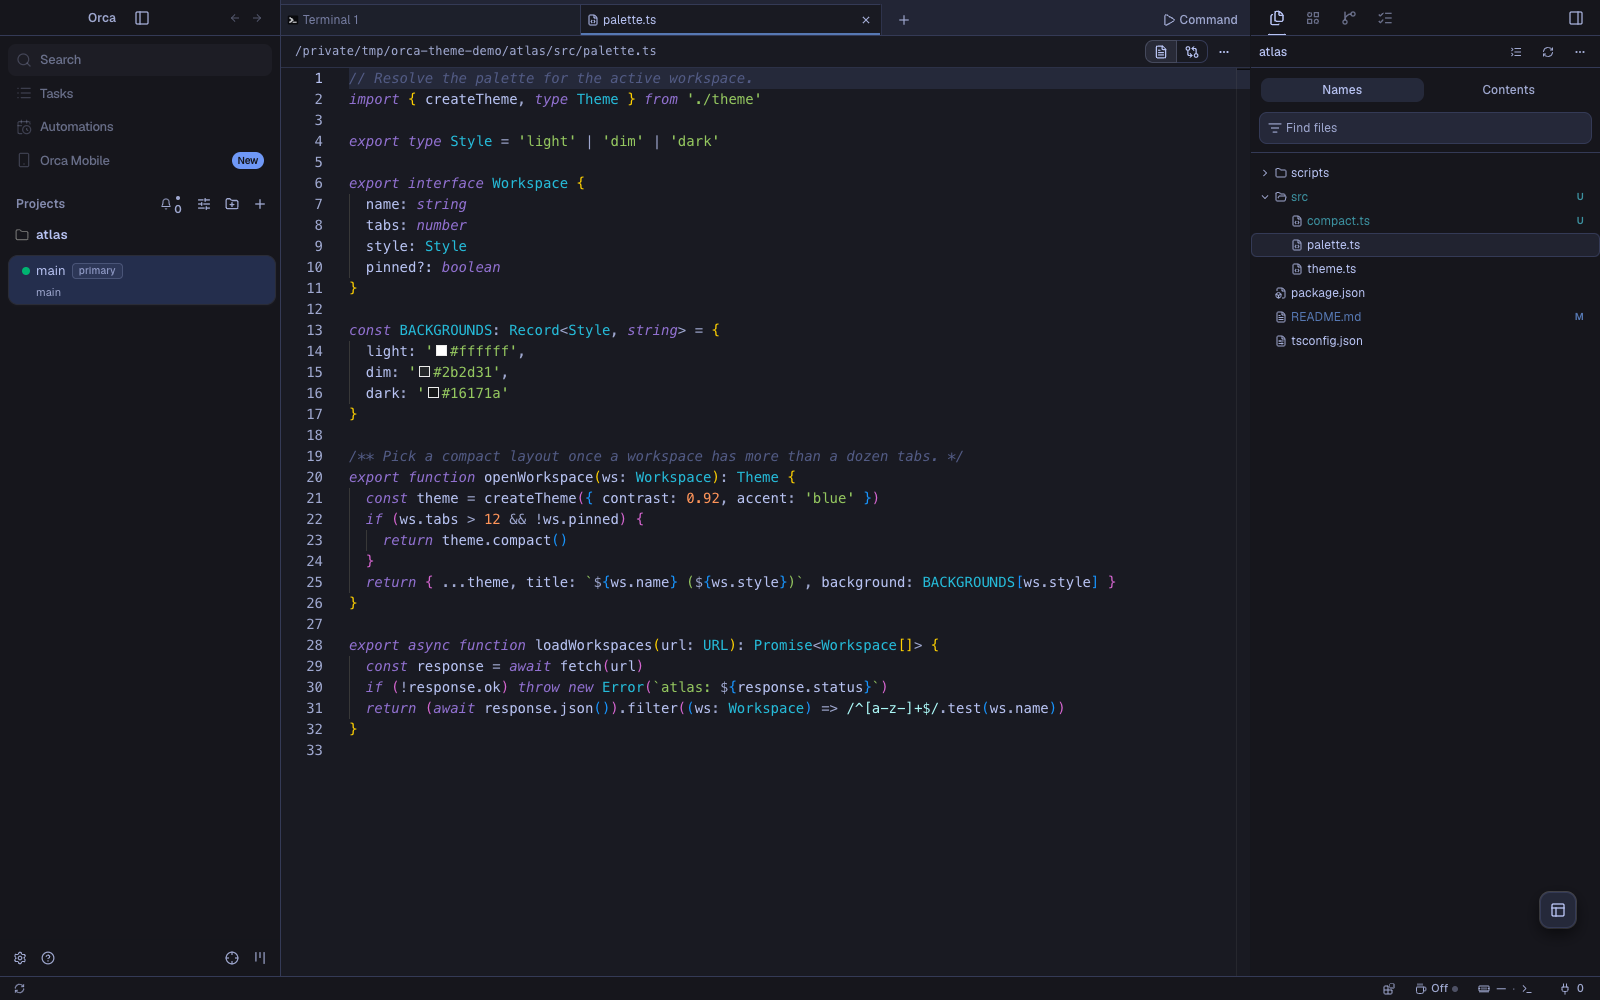
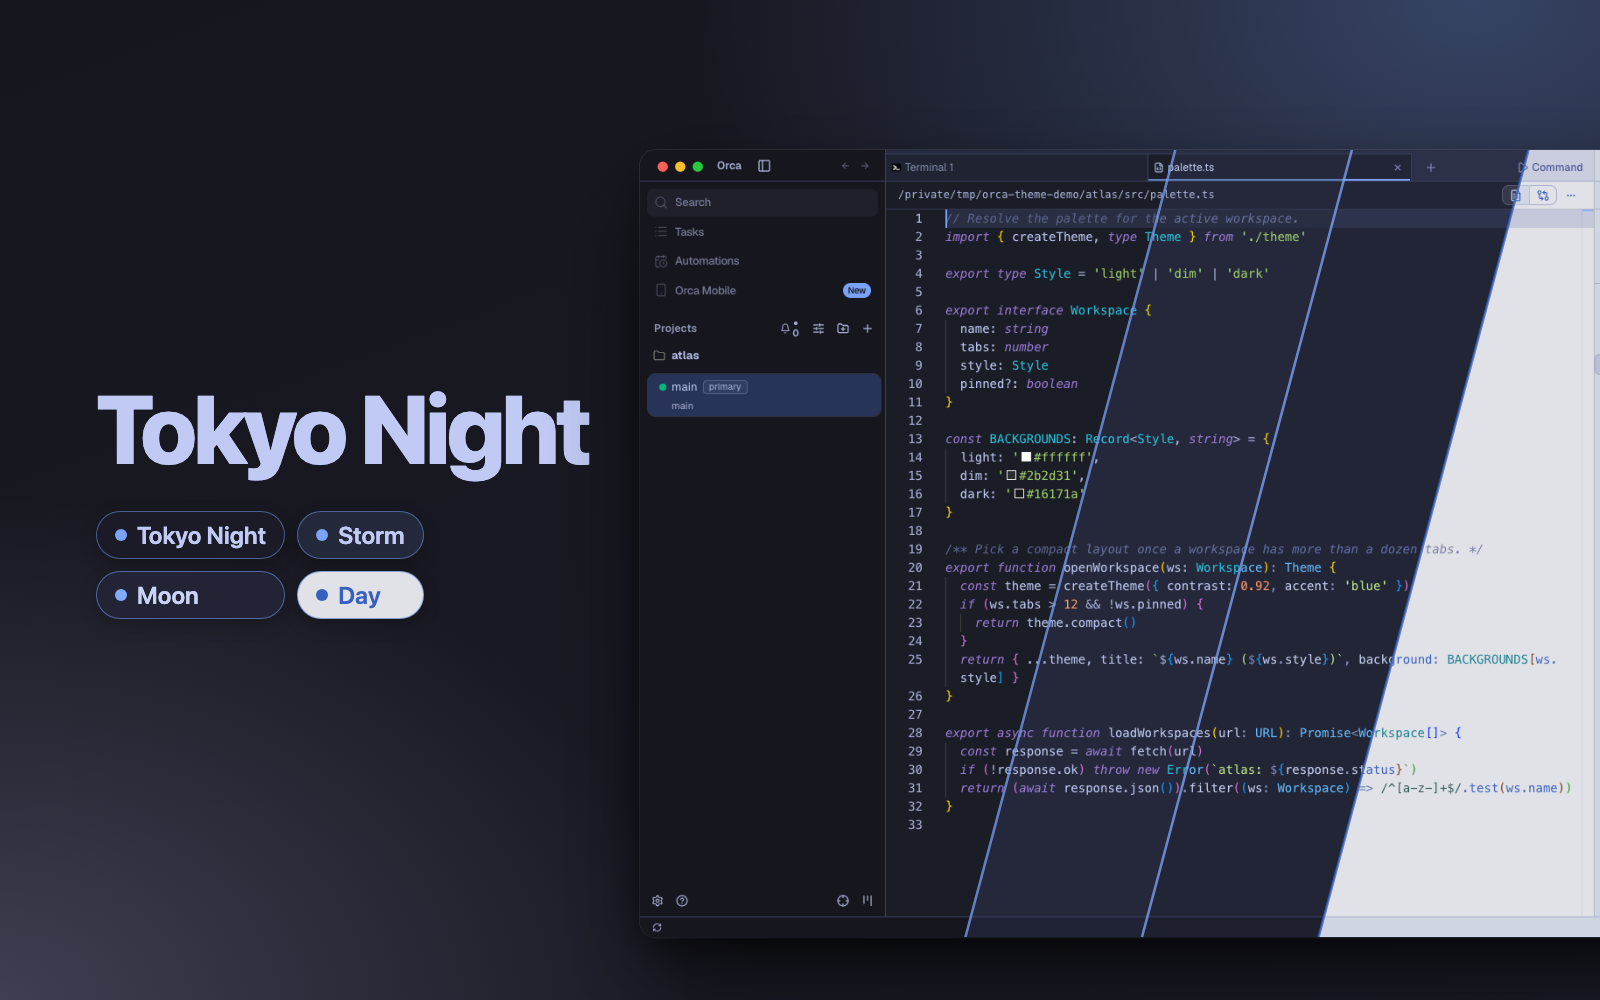
Compose the 1.1.0 cover with the theme kit's cover script

diff --git a/README.md b/README.md
@@ -10,7 +10,7 @@ Orca's official [Tokyo Night plugin](https://github.com/stablyai/orca-plugins/tr
 ports the VS Code theme's Night, Storm and Light. This plugin is built from tokyonight.nvim instead,
 adds the Moon and Day styles, and also colors diffs, git status, tabs and links.
 
-![Orca in Tokyo Night](images/cover-1.1.0.png)
+![Tokyo Night for Orca](images/cover-1.1.0.png)
 
 ## Styles
 
@@ -192,8 +192,10 @@ cd /path/to/orca && pnpm validate:plugin /path/to/orca-tokyonight
   in `scripts/derived-tokens.json` with the reason Orca's own value is right.
 
 `scripts/theme.spec.ts` drives a real Orca build. It loads the plugin, selects each style, checks
-the painted app tokens and editor colors, and saves the cover and an editor and a terminal
-screenshot per style. Copy it into the Orca checkout's `tests/e2e/` and run from there:
+the painted app tokens and editor colors, and saves an editor and a terminal screenshot per
+style. `scripts/cover.mjs` then composes the cover from those screenshots
+(`ORCA_DIR=/path/to/orca node scripts/cover.mjs . <shots dir> images/cover-<version>.png`).
+Copy the spec into the Orca checkout's `tests/e2e/` and run from there:
 
 ```sh
 ORCA_THEME_PLUGIN_DIR=/path/to/orca-tokyonight ORCA_THEME_SHOTS_DIR=/tmp/tokyonight-shots \
